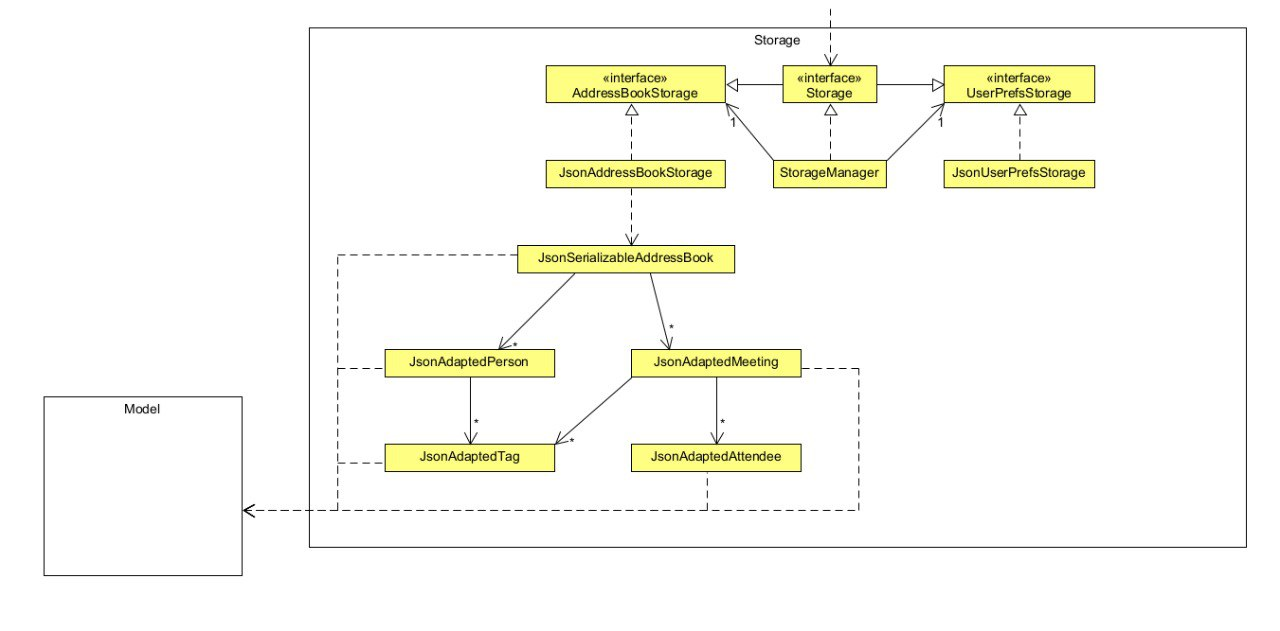
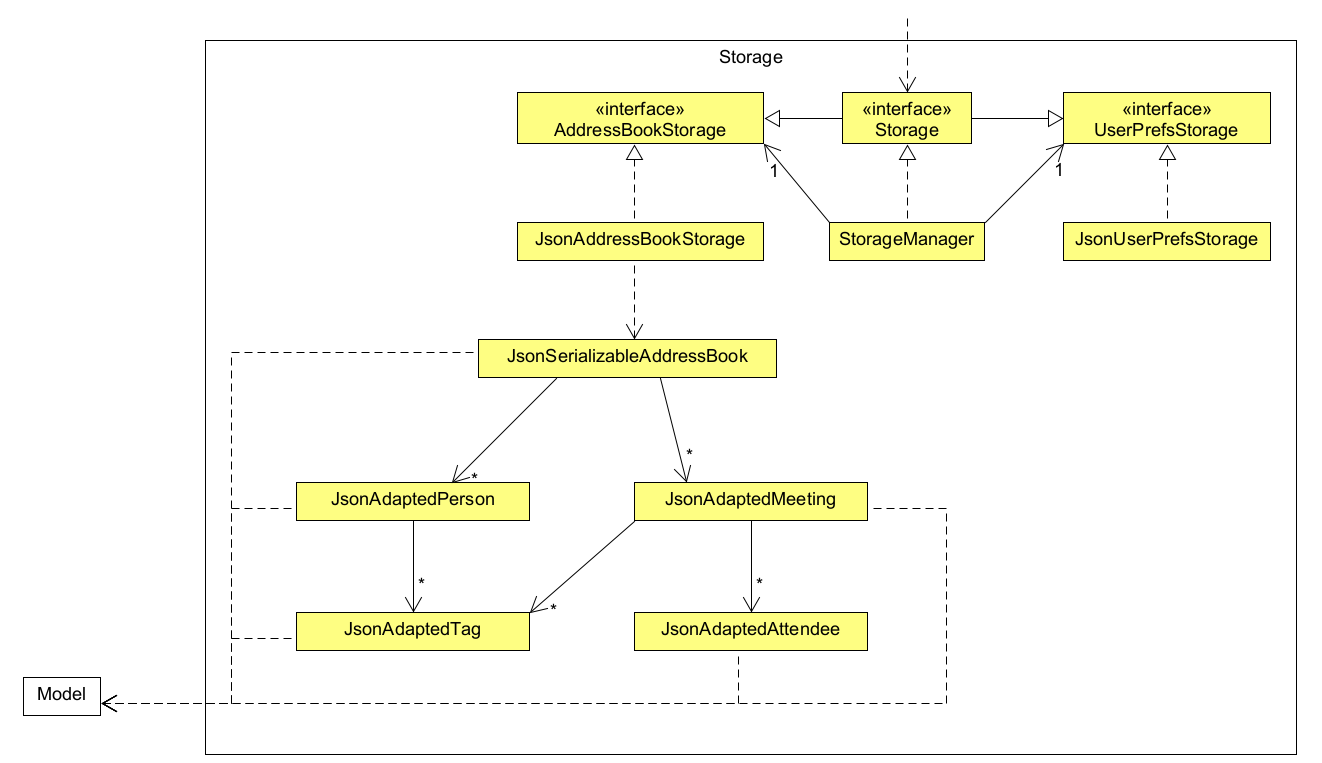
Minor edit

diff --git a/docs/DeveloperGuide.md b/docs/DeveloperGuide.md
@@ -73,7 +73,7 @@ The sections below give more details of each component.
 
 The **API** of this component is specified in [`Ui.java`](https://github.com/se-edu/addressbook-level3/tree/master/src/main/java/seedu/address/ui/Ui.java)
 
-![Structure of the UI Component](images/UiClassDiagram.png)
+<img src="images/UiClassDiagram.png" width="100%" />
 
 The UI consists of a `MainWindow` that is made up of parts e.g.`CommandBox`, `ResultDisplay`, `PersonListPanel`, `StatusBarFooter` etc. All these, including the `MainWindow`, inherit from the abstract `UiPart` class which captures the commonalities between classes that represent parts of the visible GUI.
 
@@ -121,8 +121,8 @@ How the parsing works:
 
 **API** : [`Model.java`](https://github.com/AY2324S1-CS2103T-F12-4/tp/blob/master/src/main/java/seedu/address/model/Model.java)
 
-<img src="images/ModelClassDiagram.png" width="450" />
-<img src="images/Person&MeetingClassDiagram.png" width="450" />
+<img src="images/ModelClassDiagram.png" width="100%" />
+<img src="images/Person&MeetingClassDiagram.png" width="100%" />
 
 The `Model` component,
 
@@ -136,7 +136,7 @@ The `Model` component,
 
 **API** : [`Storage.java`](https://github.com/AY2324S1-CS2103T-F12-4/tp/blob/master/src/main/java/seedu/address/storage/Storage.java)
 
-<img src="images/StorageClassDiagram.png" width="550" />
+<img src="images/StorageClassDiagram.png" width="100%" />
 
 The `Storage` component,
 
@@ -248,12 +248,14 @@ All of these fields are optional and typing `findm` alone will not impose any pr
 Given below is an example usage scenario and how the `findm` command behaves at each step.
 
 Step 1. The user executes `findm m/meeting` command to find all meetings that have the keyword `meeting` in their title. This results in the logic component calling `parse` from the `AddressBookParser` object to make a `FindMeetingCommandParser` object. This will parse the arguments available and create the `GeneralPredicateMeeting` object and FindMeetingCommand object.
-![FindMeetingSequence](images/FindMeetingSequence.png)
+
+<img src = "images/FindMeetingSequence.png" width = "100%" />
 
 Step 2. The `FindMeetingCommand` will be immediately executed and will call `setPredicate(GeneralMeetingPredicate)` from `Model`. The `GeneralMeetingPredicate` will be used on all meetings, meetings which pass all 5 predicates are shown in `MeetingSchedulePanel`. After which `FindMeetingCommand` and the predicate objects will no longer be referenced.
 
 The following diagrams show the entire sequence flow for `LogicManager#execute()` for FindMeetingCommand.
-![FindMeetingSequence2](images/FindMeetingSequence2.png)
+
+<img src = "images/FindMeetingSequence2.png" width = "100%" />
 
 #### Design Considerations and Rationale
 
